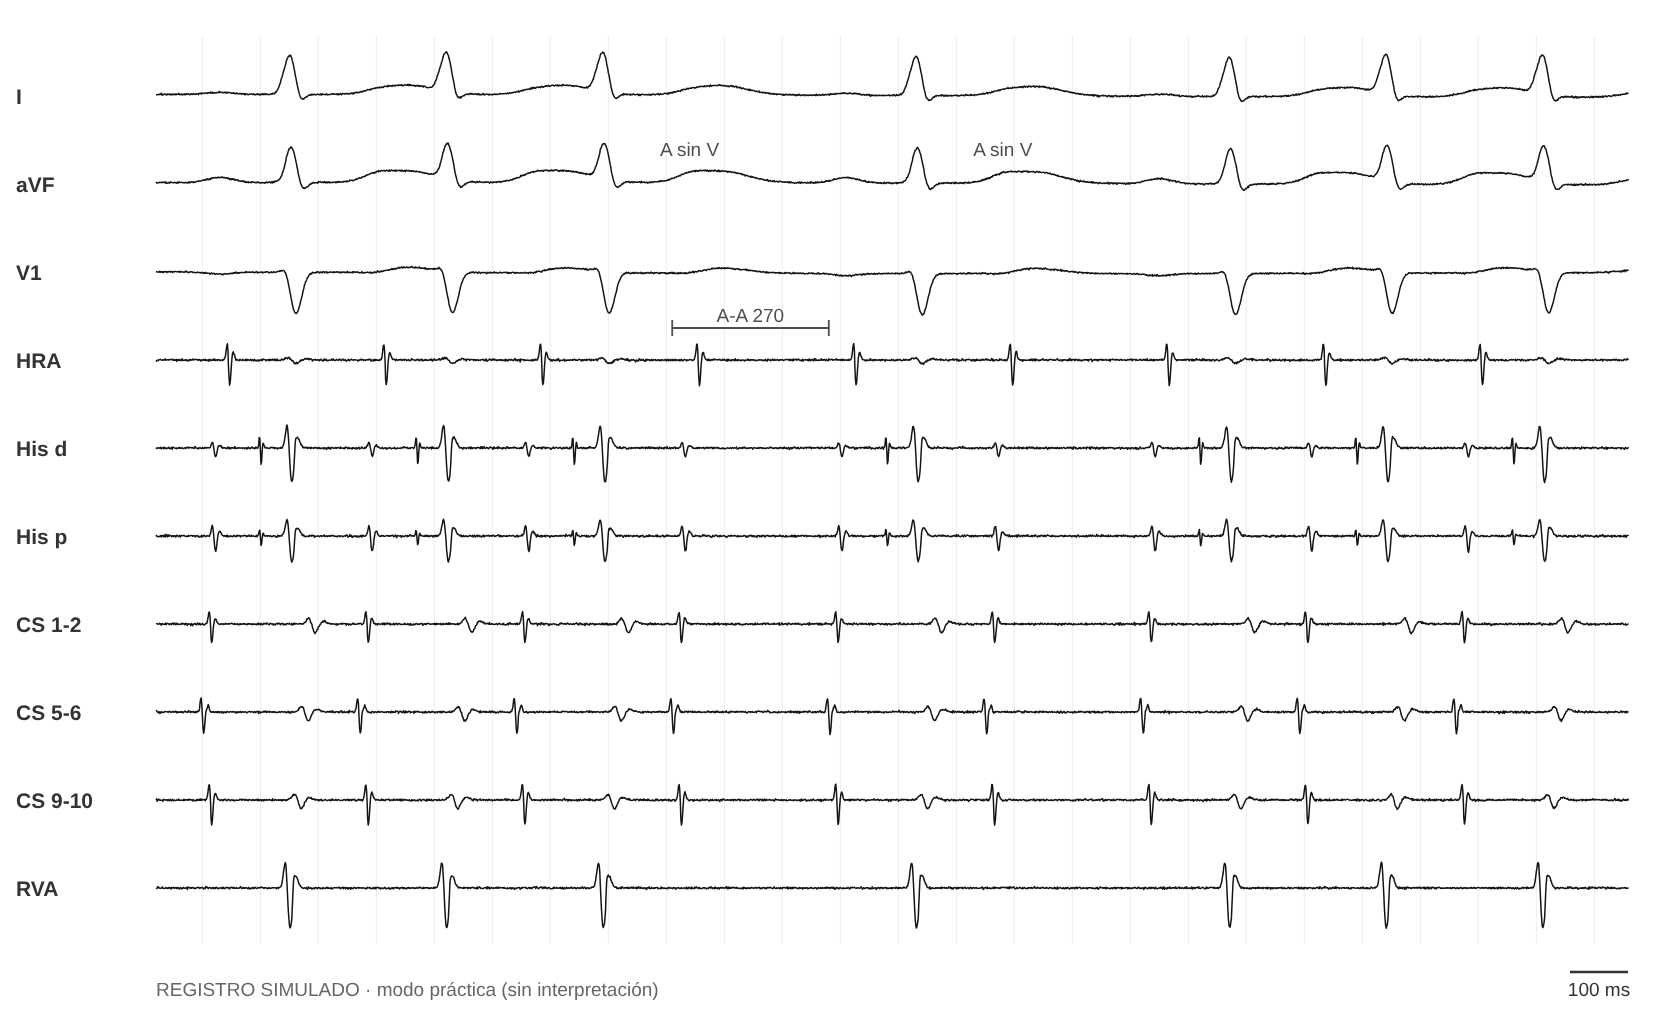
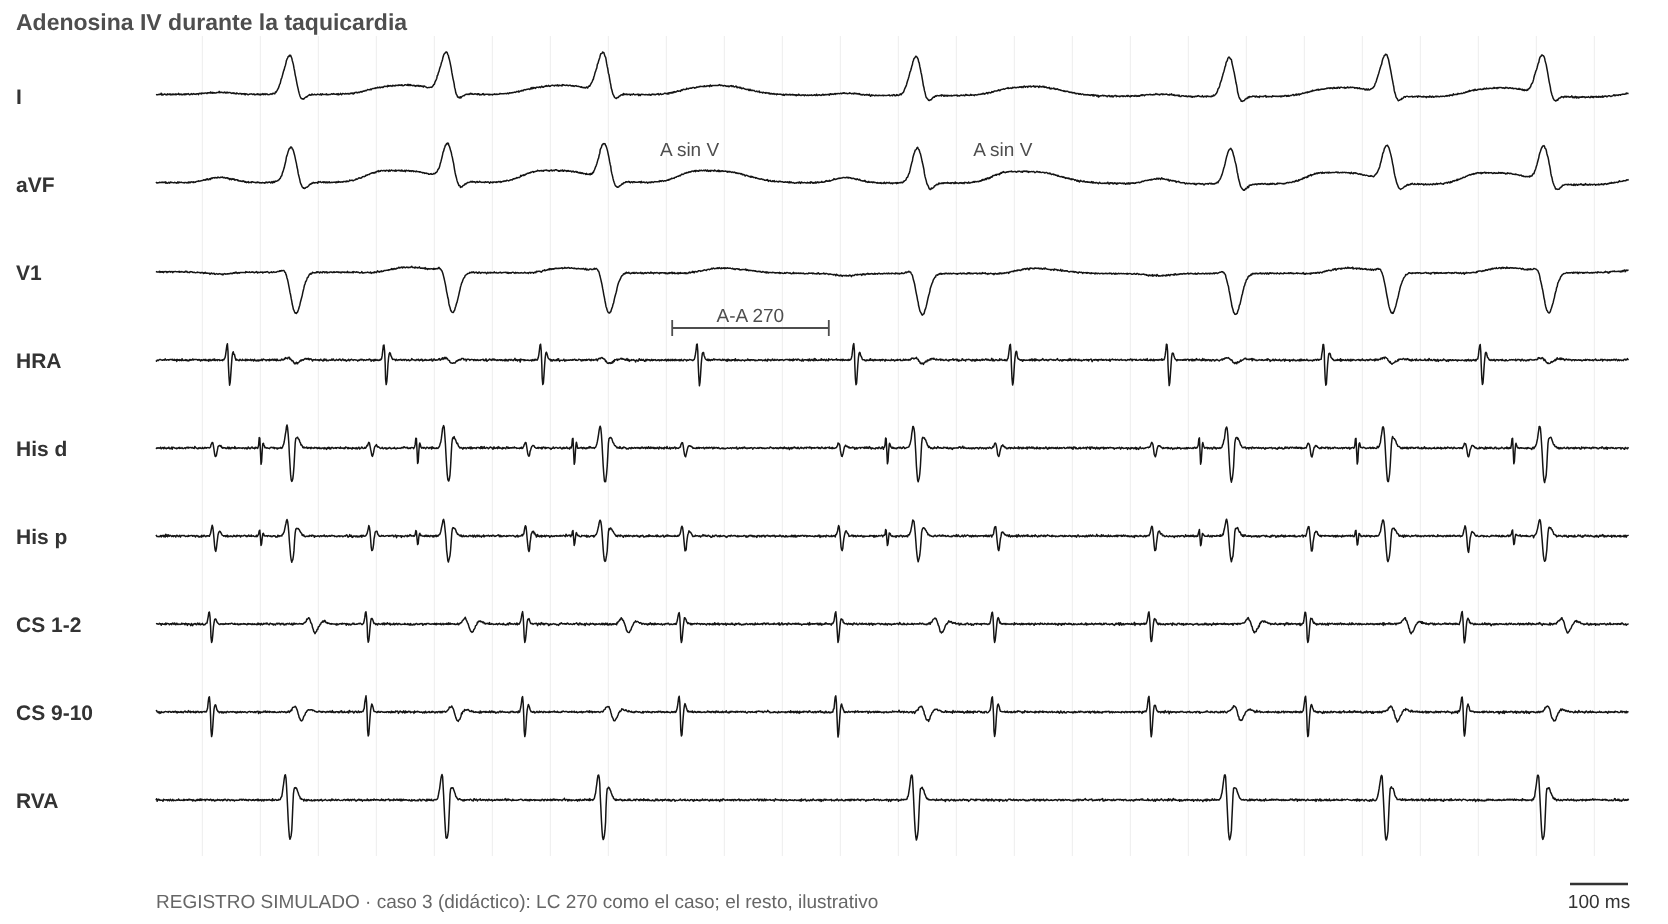
Caso 3 (TA) en el formato nuevo: todas las maniobras simuladas, valores durante el análisis y devolución paso a paso
Claude-Session: https://claude.ai/code/session_01Pw5rjt62KK5LeJZoEyFiaM

diff --git a/index.html b/index.html
@@ -1291,14 +1291,18 @@ const PCASOS = [
       ado: { v: 'La taquicardia termina: el último latido es una A que no conduce al V.', r: 'Terminación con una A: excluye la TA, pero no distingue TRAV de TRNAV.', u: 'util', img: 'figs/sim/prac/p2_ado.png' } },
     dx: ['trav_s'], ex: 'Con VA > 70 ms y respuesta A-V, el diferencial es TRAV septal vs TRNAV atípica. PPI−LC < 115, SA−VA < 85 y ΔHA < 0 apuntan a TRAV, y la EV con His refractario que adelanta la A demuestra la vía.', refs: ['michaud01', 'ho08', 'veen12'] },
   { id: 'c3', t: 'Taquicardia incesante con disfunción ventricular', p: 'Niña de 2 años con taquicardia incesante y FEVI de 45 %.',
-    ecg: 'figs/sim/casos/c3_ecg.png', ecgReal: true, basal: 'figs/sim/casos/c3_basal.png', ind: 'figs/sim/casos/c3_ind.png',
-    h: ['TSV de QRS angosto, LC 270 ms', 'Relación AV 1:1, PR 145 ms', 'Empieza sola, con calentamiento de los primeros latidos', 'A más precoz en el His y el SC proximal'],
-    m: { vop: { r: 'Las A se aceleran a la LC de estimulación con una secuencia distinta de la TSV. Al cortar: A-A-V, verificado contando desde el último A acelerado y reproducible.', u: 'clave', img: 'figs/sim/prac/p3_vop.png' },
-      ado: { r: 'Bloqueo AV 2:1 transitorio y la taquicardia auricular sigue.', u: 'clave', img: 'figs/sim/prac/p3_ado.png' },
-      aop: { r: 'Desde la AD alta, el ostium del SC y el SC distal, el VA del primer latido de retorno varía 40 ms.', u: 'util' },
-      ehr: { r: 'No modifica la A.' }, parahis: { r: 'Respuesta nodal.' },
-      pre: { r: 'Sin doble vía. Conducción VA decremental, por el nodo. La taquicardia empieza sola, con una A de secuencia distinta de la sinusal, y se acelera en los primeros latidos.' },
-      medidas: { r: 'No corresponde: con respuesta A-A-V, el PPI−LC y el SA−VA no se interpretan.' } },
+    ecg: 'figs/sim/casos/c3_ecg.png', ecgReal: true, basal: 'figs/sim/casos/c3_basal.png', ind: 'figs/sim/casos/c3_ind.png', indt: 'Inicio espontáneo de la taquicardia',
+    h: ['TSV de QRS angosto, LC 270 ms, relación AV 1:1', 'Inicio espontáneo, sin estimulación'],
+    hk: ['La taquicardia empieza sola y se acelera en los primeros latidos (A-A 340 → 270: calentamiento), con una A de secuencia distinta de la sinusal: propio de un foco automático.', 'Cada A precede a su V con AH 100 (PR 145) y VA 125: RP largo, que no excluye ningún mecanismo por sí solo.'],
+    m: { vop: { v: 'Estimulando el ápex del VD a 240 ms las A se aceleran a 240 con una secuencia distinta de la de la taquicardia. Al cortar, después de la última A acelerada viene otra A y recién después el V (secuencia A-A-V).', r: 'Respuesta A-A-V verdadera (contada desde la última A acelerada): la A siguiente no depende del V; es una TA.', u: 'clave', img: 'figs/sim/prac/p3_vop.png' },
+      ado: { v: 'Bloqueo AV 2:1 transitorio: hay A sin V y la taquicardia auricular sigue a 270 ms.', r: 'La taquicardia sigue con bloqueo AV: el nodo y el ventrículo no forman parte del mecanismo; es una TA.', u: 'clave', img: 'figs/sim/prac/p3_ado.png' },
+      aop: { v: 'Sobreestimulación auricular a 240 ms (V-V 240) desde la AD alta y desde el ostium del SC. Al cortar, el VA del primer latido es 157 ms desde la AD alta y 117 ms desde el ostium del SC.', r: 'Sin VA linking: el VA de retorno cambia 40 ms (> 14) según el sitio; la A de retorno la dispara el foco, no el V. Excluye TRNAV y TRAV, incluida una TA con PR largo como diferencial.', u: 'clave', img: 'figs/sim/prac/p3_aop.png' },
+      medidas: { v: 'PPI 595 ms con LC 270 (PPI−LC 325). SA 120 ms con VA 125 (SA−VA −5).', r: 'Engañosa: con respuesta A-A-V el PPI−LC y el SA−VA no se interpretan (y además se contradicen: uno sugiere TRNAV y el otro TRAV).', u: 'trampa', img: 'figs/sim/prac/p3_medidas.png' },
+      diff: { v: 'Encarrilando a 240 ms: SA 120 desde el ápex y SA 105 desde la base del VD. En los dos, al cortar, A-A-V.', r: 'Engañosa: el encarrilamiento diferencial sirve para TRNAV vs TRAV; con A-A-V no corresponde.', u: 'trampa', img: 'figs/sim/prac/p3_diff.png' },
+      ehr: { v: 'EV con el His refractario: la A siguiente no cambia (A-A 270) y la taquicardia sigue.', r: 'No hay una vía que lleve el V a la A. No distingue la TA de la TRNAV.', u: 'util', img: 'figs/sim/prac/p3_ehr.png' },
+      eha: { v: 'EA desde el ostium del SC con el His refractario: la A siguiente aparece 300 ms después del EA y el His siguiente se retrasa (H-H 410).', r: 'El EA captura la aurícula y resetea el foco; el His se mueve porque depende de la A. Esperable en la TA.', u: 'util', img: 'figs/sim/prac/p3_eha.png' },
+      parahis: { v: 'En sinusal, con captura del His: SA 85 y QRS 95. Solo V: SA 135 y QRS 150. Misma secuencia auricular.', r: 'Respuesta nodal: no hay una vía septal.', u: 'util', img: 'figs/sim/prac/p3_parahis.png' },
+      pre: { v: 'Estimulación ventricular en sinusal a 500 y 400 ms.', r: 'SA 140 a 500 y 190 a 400 (decremental), concéntrica: conducción VA por el nodo, sin vía.', u: 'util', img: 'figs/sim/prac/p3_pre.png' } },
     dx: ['ta'], ex: 'La respuesta A-A-V verdadera, la secuencia auricular distinta durante la estimulación ventricular y la persistencia con bloqueo AV por adenosina indican TA. La variación del VA de retorno desde varios sitios (> 14 ms) también la apoya.', refs: ['knight99', 'knight00', 'maruyama07'] },
   { id: 'c4', t: 'TSV con activación excéntrica', p: 'Adolescente de 16 años con TSV. ECG basal sin preexcitación.',
     ecg: 'figs/sim/casos/c4_ecg.jpg', ecgReal: true, basal: 'figs/sim/casos/c4_basal.png', ind: 'figs/sim/casos/c4_ind.png',
@@ -2033,7 +2037,7 @@ $('#goEnr').onclick = () => locView('enr'); $('#goObl').onclick = () => openFich
 document.querySelectorAll('[data-back]').forEach(b => b.onclick = () => locView('hub'));
 try { const t = location.hash === '#localizar' ? 'loc' : localStorage.getItem('mef_tab'); if (t) tab(t); } catch (e) {}
 checkReview();
-const APPV = 146;   // igual al número de CACHE_VERSION de sw.js
+const APPV = 147;   // igual al número de CACHE_VERSION de sw.js
 if ('serviceWorker' in navigator && location.protocol === 'https:') {
   navigator.serviceWorker.register('sw.js').then(r => r.update()).catch(() => {});
   // cuando se instala una versión nueva, recarga una vez para mostrarla

diff --git a/sw.js b/sw.js
@@ -1,6 +1,6 @@
 // Permite instalar la app y abrirla sin conexión. Primero la red (siempre lo último publicado); si no hay, la copia.
 // Si cambiás un archivo, subí CACHE_VERSION.
-const CACHE_VERSION = 'mef-v146';
+const CACHE_VERSION = 'mef-v147';
 const ARCHIVOS = ['./', './index.html', './manifest.json', './iconos/icon-192.png', './iconos/icon-512.png'];
 self.addEventListener('install', e => e.waitUntil(caches.open(CACHE_VERSION).then(c => c.addAll(ARCHIVOS)).then(() => self.skipWaiting())));
 self.addEventListener('activate', e => e.waitUntil(caches.keys().then(ks => Promise.all(ks.filter(k => k !== CACHE_VERSION).map(k => caches.delete(k)))).then(() => self.clients.claim())));

diff --git a/herramientas/simulador/cases6.py b/herramientas/simulador/cases6.py
@@ -276,6 +276,103 @@ S['p2_eha'] = dict(win=(-100, vs[-1] + 250), pxms=0.25, title='EA con His refrac
     cal=[(hs[3], hs[4], 'His d', f'H-H {LC2}'), (hs[4], hs[5], 'His d', f'H-H {LC2}')],
     marks=[(apb, 'V1', 'EA')])
 
+# =====================================================================================================
+# Caso 3 (TA incesante en una niña de 2 años; LC 270 como el ECG real). A → His 100, HV 45 (PR 145), VA 125.
+SRC3 = 'caso 3 (didáctico): LC 270 como el caso; el resto, ilustrativo'
+LC3, AH3, SC3 = 270, 100, 240
+VA3 = LC3 - AH3 - HV
+
+
+def ta_vop(title, med, sa=120, typ='pa', pace='RVA'):
+    A0 = [0, LC3, 2 * LC3]
+    vs0 = [a + AH3 + HV for a in A0]
+    sp = [vs0[-1] + 200 + SC3 * k for k in range(6)]
+    Aret = [s + sa for s in sp]
+    focal = Aret[-1] + 330
+    v_after = focal + AH3 + HV
+    cal = [(A0[0], A0[1], 'HRA', f'A-A {LC3}'), (sp[-2], sp[-1], 'RVA', f'S-S {SC3}'), (Aret[-2], Aret[-1], 'HRA', f'A-A {SC3}'),
+           (Aret[-1], focal, 'CS 9-10', f'A-A {focal - Aret[-1]}')]
+    marks = [(Aret[-1], 'His p', 'A'), (focal, 'His p', 'A'), (v_after, 'aVF', 'V')]
+    if med:
+        cal = [(A0[0], A0[1], 'HRA', f'A-A {LC3}'), (vs0[0], A0[1] + 2, 'CS 9-10', f'VA {VA3}'), (sp[-1], Aret[-1] + 2, 'CS 9-10', f'SA {sa}'),
+               (sp[-1], v_after + 2, 'RVA', f'PPI {v_after - sp[-1]}')]
+        marks = [(sp[-1] + 300, 'I', f'SA − VA = {sa} − {VA3} = {sa - VA3} ms'), (sp[-1] + 300, 'aVF', f'PPI − LC = {v_after - sp[-1]} − {LC3} = {v_after - sp[-1] - LC3} ms')]
+    return dict(win=(-80, v_after + 380), pxms=0.25, channels=CH6, title=title, src=SRC3, pace_ch=pace,
+        beats=[(v, 'n') for v in vs0] + [(s, typ) for s in sp] + [(v_after, 'n'), (v_after + LC3, 'n')], spikes=sp,
+        atr=[(a, 'cs_mid', 1) for a in A0] + [(a, 'conc_his', -1) for a in Aret] + [(focal, 'cs_mid', 1), (focal + LC3, 'cs_mid', 1)],
+        h_ante=[v - HV for v in vs0] + [v_after - HV, v_after + LC3 - HV], h_retro=[s + sa - 10 for s in sp], cal=cal, marks=marks)
+
+
+S['p3_vop'] = ta_vop('Sobreestimulación ventricular desde el ápex del VD a 240 ms', False)
+S['p3_medidas'] = ta_vop('Medidas sobre la sobreestimulación ventricular (ápex del VD a 240 ms): PPI y SA', True)
+S['p3_diff_a'] = ta_vop('A. Encarrilamiento desde el ápex del VD (240 ms)', True, 120, 'pa')
+S['p3_diff_b'] = ta_vop('B. Encarrilamiento desde la base del VD (240 ms)', True, 105, 'pb')
+for k in ('p3_diff_a', 'p3_diff_b'):
+    S[k]['marks'] = []
+
+# Adenosina: bloqueo AV 2:1 transitorio y la TA sigue.
+A = [i * LC3 for i in range(9)]
+cond = [0, 1, 2, 4, 6, 7, 8]
+hs = [A[i] + AH3 for i in cond]
+S['p3_ado'] = dict(win=(-80, A[-1] + 300), pxms=0.29, channels=CH6, title='Adenosina IV durante la taquicardia', src=SRC3,
+    beats=[(h + HV, 'n') for h in hs], atr=[(a, 'cs_mid', 1) for a in A], h_ante=hs,
+    cal=[(A[3], A[4], 'HRA', f'A-A {LC3}')], marks=[(A[3] + 30, 'aVF', 'A sin V'), (A[5] + 30, 'aVF', 'A sin V')])
+
+# EV con His refractario: la A siguiente no cambia.
+A = [i * LC3 for i in range(7)]
+hs = [a + AH3 for a in A]
+vs = [h + HV for h in hs]
+ev = hs[3]
+S['p3_ehr'] = dict(win=(-80, vs[-1] + 200), pxms=0.30, title='EV con His refractario durante la taquicardia', channels=CH6, src=SRC3,
+    spikes=[ev], pace_ch='RVA', beats=[(v, 'n') for k2, v in enumerate(vs) if k2 != 3] + [(ev, 'pa')],
+    atr=[(a, 'cs_mid', 1) for a in A], h_ante=hs,
+    cal=[(A[2], A[3], 'CS 9-10', f'A-A {LC3}'), (A[3], A[4], 'CS 9-10', f'A-A {LC3}')], marks=[(ev, 'V1', 'EV'), (ev, 'His p', 'H')])
+
+# EA con His refractario desde el ostium del SC: captura la aurícula y resetea el foco: la A y el His siguientes se retrasan.
+A = [i * LC3 for i in range(4)]
+ea = A[3] + AH3 + 10
+A2 = [ea + 300, ea + 300 + LC3, ea + 300 + 2 * LC3]
+hs = [a + AH3 for a in A] + [a + AH3 for a in A2]
+vs = [h + HV for h in hs]
+S['p3_eha'] = dict(win=(-80, vs[-1] + 220), pxms=0.27, title='EA con His refractario desde el ostium del SC', channels=CH6, src=SRC3,
+    beats=[(v, 'n') for v in vs], aspikes=[ea], apace_ch='CS 9-10',
+    atr=[(a, 'cs_mid', 1) for a in A + A2] + [(ea + 4, 'conc_cs', 1)], h_ante=hs,
+    cal=[(hs[2], hs[3], 'His d', f'H-H {LC3}'), (hs[3], hs[4], 'His d', f'H-H {hs[4] - hs[3]}'), (ea, A2[0], 'CS 9-10', 'A-A 300')],
+    marks=[(ea, 'V1', 'EA')])
+
+
+# Sobreestimulación auricular desde dos sitios: el VA del primer latido de retorno cambia.
+def ta_aop(site, ch, seq, ret, title):
+    A0 = [0, LC3]
+    sp = [A0[-1] + 200 + 240 * k for k in range(6)]
+    pv = [s + 28 + AH3 + HV for s in sp]
+    focal = sp[-1] + ret
+    hs = [a + AH3 for a in A0] + [s + 28 + AH3 for s in sp] + [focal + AH3, focal + LC3 + AH3]
+    vs = [h + HV for h in hs]
+    return dict(win=(-80, vs[-1] + 220), pxms=0.22, title=title, channels=CH6, src=SRC3, beats=[(v, 'n') for v in vs],
+        aspikes=sp, apace_ch=ch, atr=[(a, 'cs_mid', 1) for a in A0] + [(s + 5, seq, 1) for s in sp] + [(focal, 'cs_mid', 1), (focal + LC3, 'cs_mid', 1)],
+        h_ante=hs, cal=[(sp[-2], sp[-1], ch, 'S-S 240'), (pv[-2], pv[-1], 'RVA', 'V-V 240'), (pv[-1], focal + 2, 'CS 9-10', f'VA {focal - pv[-1]}')])
+
+
+S['p3_aop_a'] = ta_aop('AD alta', 'HRA', 'sinus', 330, 'A. Sobreestimulación auricular desde la AD alta a 240 ms')
+S['p3_aop_b'] = ta_aop('ostium del SC', 'CS 9-10', 'conc_cs', 290, 'B. Desde el ostium del SC a 240 ms')
+
+# Para-Hisiana en sinusal: respuesta nodal (el SA se alarga 50 ms).
+sp = [0, 650, 1300, 1950]
+cap = [True, False, True, False]
+S['p3_parahis'] = dict(win=(-80, 2300), pxms=0.32, title='Estimulación para-Hisiana en ritmo sinusal', channels=CH6, src=SRC3,
+    spikes=sp, pace_ch='His p', beats=[(s + HV if c else s, 'n' if c else 'pa') for s, c in zip(sp, cap)],
+    atr=[(s + (85 if c else 135), 'conc_his', -1) for s, c in zip(sp, cap)],
+    cal=[(sp[0], sp[0] + 87, 'HRA', 'SA 85'), (sp[1], sp[1] + 137, 'HRA', 'SA 135'), (sp[2] + HV, sp[2] + HV + 95, 'RVA', 'QRS 95'), (sp[3], sp[3] + 150, 'RVA', 'QRS 150')],
+    marks=[(sp[0] + 30, 'V1', 'His + V'), (sp[1] + 40, 'V1', 'solo V')])
+
+# Estudio basal: estimulación ventricular a 500 y 400: SA 140 y 190 (decremental), concéntrica por el nodo.
+sp = [0, 500, 1000, 1400, 1800]
+sas = [140, 140, 140, 190, 190]
+S['p3_pre'] = dict(win=(-80, 2150), pxms=0.30, title='Estimulación ventricular en ritmo sinusal: 500 y 400 ms', channels=CH6, src=SRC3,
+    spikes=sp, beats=[(s, 'pa') for s in sp], atr=[(s + a, 'conc_his', -1) for s, a in zip(sp, sas)], h_retro=[s + a - 60 for s, a in zip(sp, sas)],
+    cal=[(sp[0], sp[1], 'RVA', 'S-S 500'), (sp[1], sp[1] + 142, 'HRA', 'SA 140'), (sp[2], sp[3], 'RVA', 'S-S 400'), (sp[3], sp[3] + 192, 'HRA', 'SA 190')])
+
 if __name__ == '__main__':
     for k in (sys.argv[3:] or S):
         render(S[k], f'{OUT}/{k}.svg')

diff --git a/herramientas/simulador/cases4.py b/herramientas/simulador/cases4.py
@@ -58,7 +58,7 @@ LC = 270
 A = [i * LC for i in range(9)]
 cond = [0, 1, 2, 4, 6, 7, 8]
 hs = [A[i] + 100 for i in cond]
-S['p3_ado'] = dict(win=(-80, A[-1] + 300), pxms=0.29, channels=CH, src='caso 3 (didáctico): valores ilustrativos',
+S['p3old_ado'] = dict(win=(-80, A[-1] + 300), pxms=0.29, channels=CH, src='caso 3 (didáctico): valores ilustrativos',
     beats=[(h + HV, 'n') for h in hs], atr=[(a, 'cs_mid', 1) for a in A], h_ante=hs,
     cal=[(A[3], A[4], 'HRA', f'A-A {LC}')], marks=[(A[3] + 30, 'aVF', 'A sin V'), (A[5] + 30, 'aVF', 'A sin V')])
 
@@ -210,7 +210,7 @@ sp = [vs0[-1] + 200 + SC * k for k in range(6)]
 Aret = [s + 120 for s in sp]
 focal = Aret[-1] + 330
 v_after = focal + 100 + HV
-S['p3_vop'] = dict(win=(-80, v_after + 380), pxms=0.25, channels=CH, title='Sobreestimulación ventricular desde el ápex del VD a 240 ms',
+S['p3old_vop'] = dict(win=(-80, v_after + 380), pxms=0.25, channels=CH, title='Sobreestimulación ventricular desde el ápex del VD a 240 ms',
     src='caso 3 (didáctico): valores ilustrativos',
     beats=[(v, 'n') for v in vs0] + [(s, 'pa') for s in sp] + [(v_after, 'n'), (v_after + LC, 'n')], spikes=sp,
     atr=[(a, 'cs_mid', 1) for a in A0] + [(a, 'conc_his', -1) for a in Aret] + [(focal, 'cs_mid', 1), (focal + LC, 'cs_mid', 1)],
